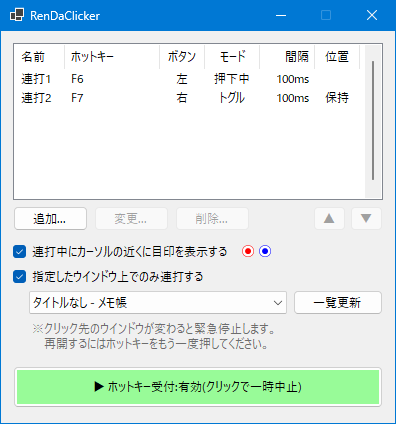
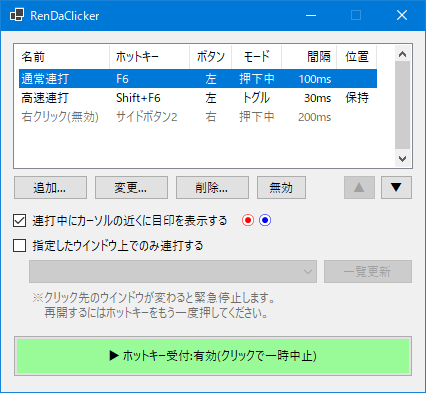
[docs] README に無効化ボタンとウインドウ状態の保存を追記し、スクリーンショットを更新

Changed region(s): [[0.0, 0.0, 1.0, 0.8244], [0.0303, 0.855, 0.9697, 0.9771], [0.5758, 0.5496, 0.697, 0.6107]]

diff --git a/README.md b/README.md
@@ -19,11 +19,13 @@
 - **ホットキーの優先順位** — 設定した修飾キーが押されていれば成立します(余分な修飾キーは無視)  
 `Tab` と `Shift+Tab` のように複数成立した場合は修飾キーの多いほうが優先、同数なら一覧で上のほうが優先です
 - **プロファイルの並び替え** — 「▲」「▼」で順序(=優先順位)を変更できます
+- **プロファイルの一時無効化** — 「無効」ボタンで選択したプロファイルだけホットキーに反応しないようにできます(一覧では灰色で表示)。もう一度押すと有効に戻ります
 - **連打中の目印表示**— カーソル付近に目印を表示(クリック透過)。左クリックは赤、右クリックは青
 - **対象ウインドウの限定**— 連打を特定のウインドウ上（タイトル）に限定し、外れたら緊急停止します  
 緊急停止後の再開はホットキーをもう一度押し直してください
 - **ホットキー受付の一時中止** — ボタン1つで全プロファイルの判定を止められます
-- **設定の自動保存** — 変更のたびに実行ファイルと同じフォルダの `settings.json` へ保存し、次回起動時に復元します
+- **設定の自動保存** — 変更のたびに実行ファイルと同じフォルダの `settings.json` へ保存し、次回起動時に復元します  
+ウインドウの位置・サイズ、一覧のカラム幅も保存されます
 
 ## 使い方
 
